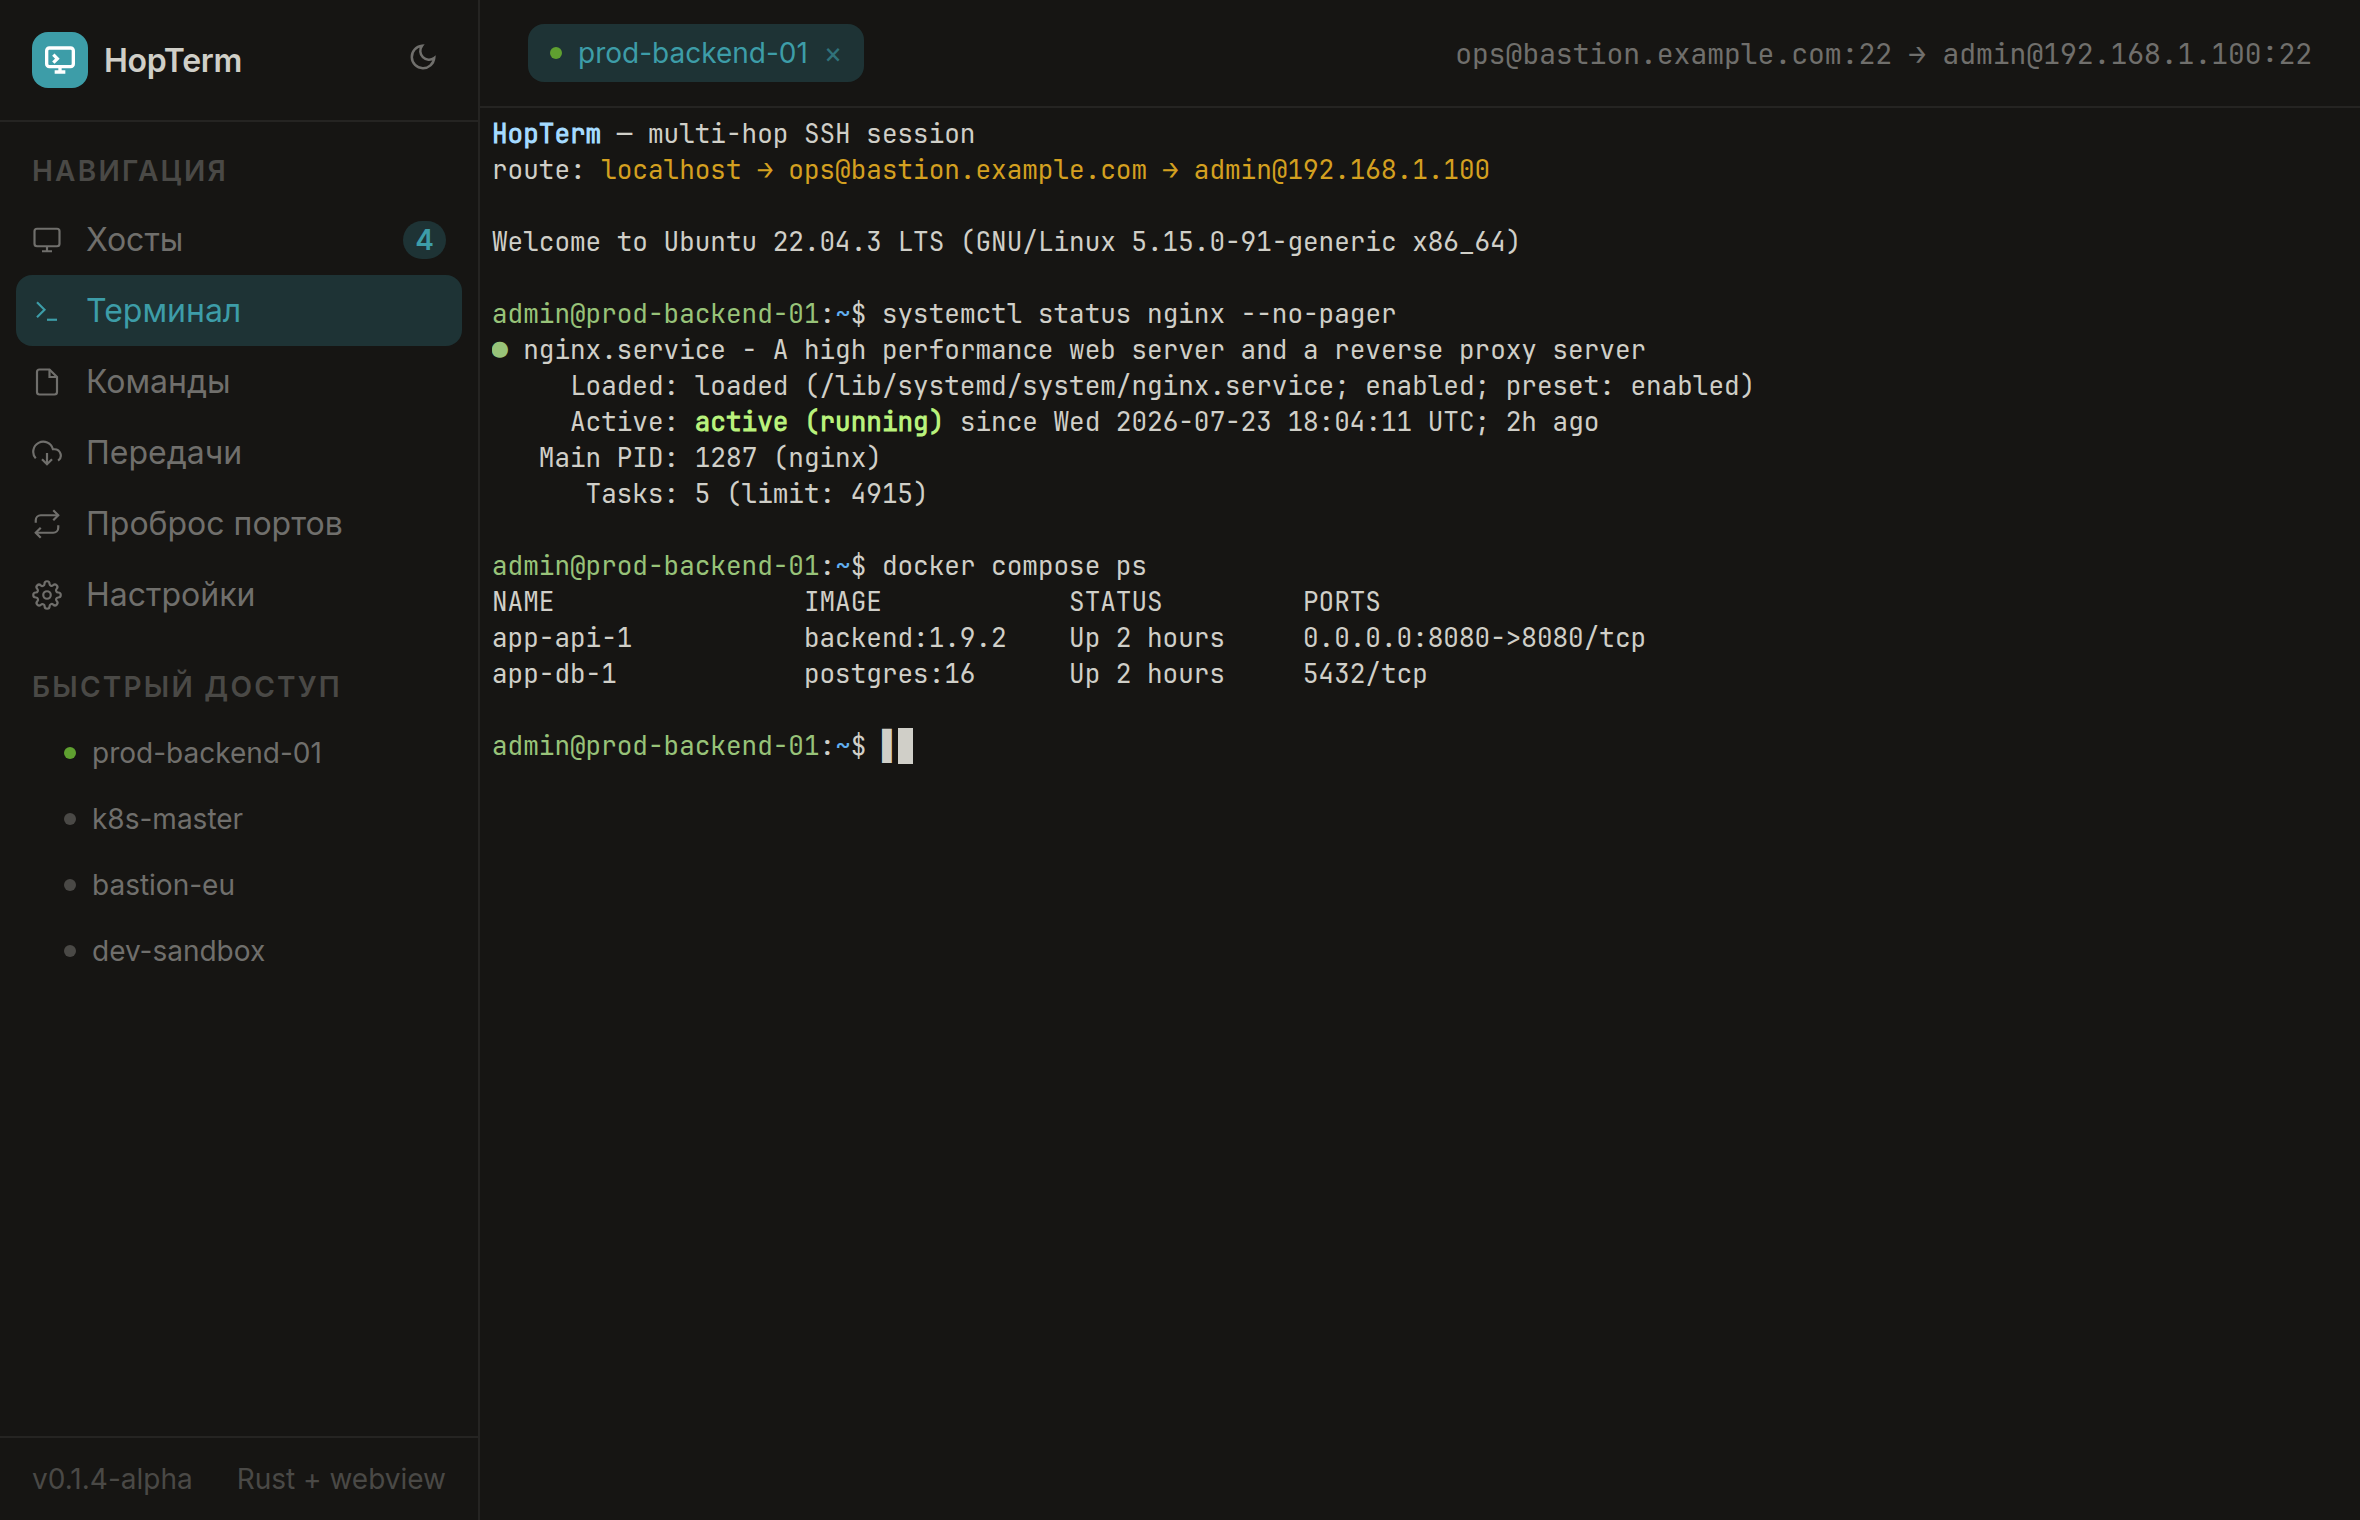
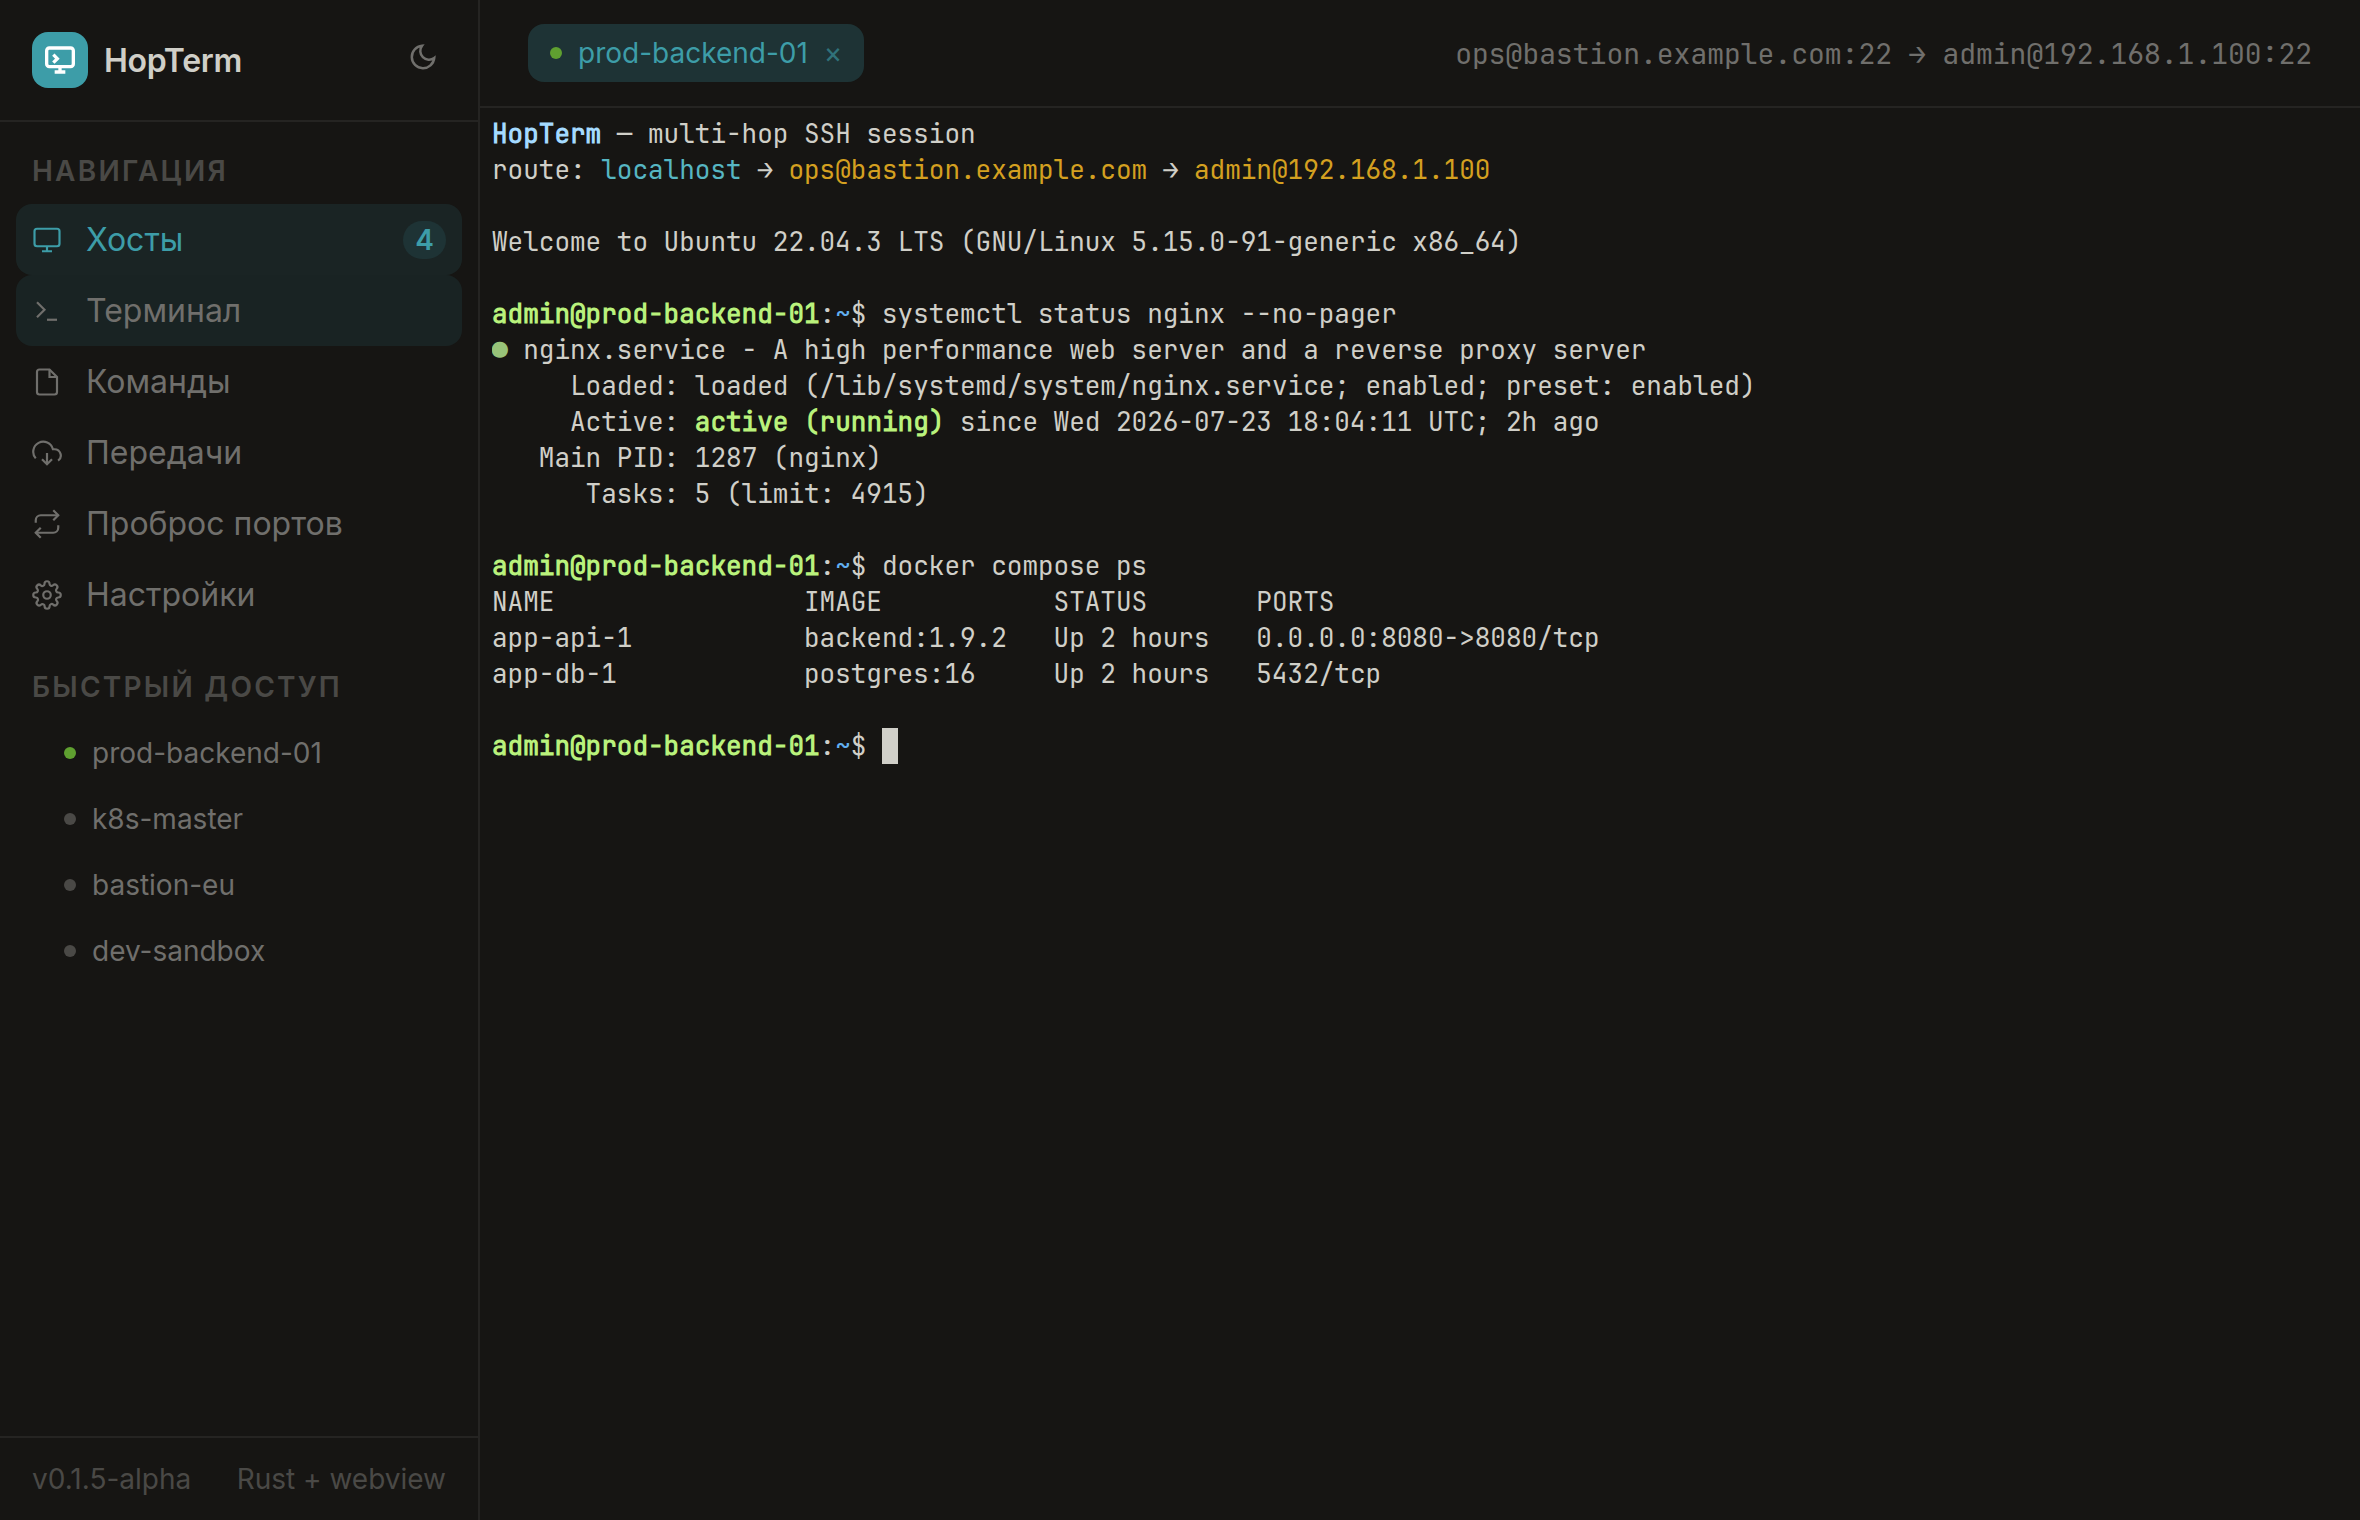
Update screenshots for v0.1.5 (VNC desktop card)
Re-rendered from the real index.html on the same demo data.

diff --git a/README.md b/README.md
@@ -19,7 +19,8 @@ _На демо-данных._
 
 ![Терминал](screenshots/terminal.png)
 
-**Проброс портов** — локальный проброс (`ssh -L`) и SOCKS-прокси (`ssh -D`):
+**Проброс портов** — локальный проброс (`ssh -L`), SOCKS-прокси (`ssh -D`) и
+рабочий стол хоста по VNC:
 
 ![Проброс портов](screenshots/port-forwarding.png)
 
